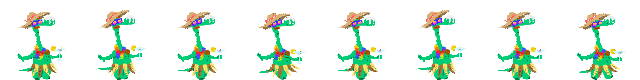
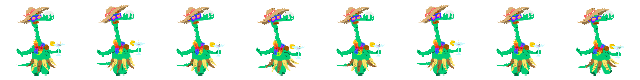
dino animation included

diff --git a/MangoMambo/Development/scenes/level_1.js b/MangoMambo/Development/scenes/level_1.js
@@ -12,7 +12,6 @@ class Level1 extends Phaser.Scene {
     }
 
     init (data){
-        this.characters = [];
         this.characters = data.characters;
         this.numPlayers = this.characters.length; // Número de jugadores
     }
@@ -44,13 +43,13 @@ class Level1 extends Phaser.Scene {
         // Se cargan las animaciones de los personajes
         this.load.spritesheet('dino_idle', './Design/Characters/Dino/dino_idle_00.png',
         {
-            frameWidth: 49,
-            frameHeight: 69 
+            frameWidth: 80,
+            frameHeight: 80 
         });
-        this.load.spritesheet('dino_walk', './Design/Characters/Dino/dino_walk2.png',
+        this.load.spritesheet('dino_walk', './Design/Characters/Dino/dino_walk.png',
         {
-            frameWidth: 49,
-            frameHeight: 72 
+            frameWidth: 80,
+            frameHeight: 80 
         });
         // Se cargan los contornos de los pesonajes
         this.load.image("outline", "./Design/Objects/outline.png");
@@ -135,19 +134,19 @@ class Level1 extends Phaser.Scene {
         for (var i = 0; i < this.characters.length; i++){
             switch(this.characters[i].id){
                 case 1:
-                    this.characters[i] = new Character(this, this.characters[i].id, this.characters[i].type.split("_")[0], true, 0, 0);
+                    this.characters[i] = new Character(this, this.characters[i].id, this.characters[i].type.split("_")[0]+"_idle", true, 0, 0);
                     break;
 
                 case 2:
-                    this.characters[i] = new Character(this, this.characters[i].id, this.characters[i].type.split("_")[0], true, 0, 0);
+                    this.characters[i] = new Character(this, this.characters[i].id, this.characters[i].type.split("_")[0]+"_idle", true, 0, 0);
                     break;
                 
                 case 3:
-                    this.characters[i] = new Character(this, this.characters[i].id, this.characters[i].type.split("_")[0], true, 0, 0);
+                    this.characters[i] = new Character(this, this.characters[i].id, this.characters[i].type.split("_")[0]+"_idle", true, 0, 0);
                     break;
 
                 case 4:
-                    this.characters[i] = new Character(this, this.characters[i].id, this.characters[i].type.split("_")[0], true, 0, 0);
+                    this.characters[i] = new Character(this, this.characters[i].id, this.characters[i].type.split("_")[0]+"_idle", true, 0, 0);
                     break;
             }
         }

diff --git a/MangoMambo/Development/players/character.js b/MangoMambo/Development/players/character.js
@@ -127,7 +127,7 @@ class Character extends Phaser.GameObjects.Sprite{
     }
 
     create() {
-        switch (this.type) {
+        switch (this.type.split("_")[0]) {
             case "palm":
                 this.colliderSize = [25, 42];
                 this.maxVelocity = 300;
@@ -140,7 +140,7 @@ class Character extends Phaser.GameObjects.Sprite{
                 this.anim[2] = "palm_jump";
                 break;
             case "dino":
-                this.colliderSize = [, ];
+                this.colliderSize = [80,80];
                 this.maxVelocity = 275;
                 this.acceleration = 3000;
                 this.jumpHeight = 510;
@@ -148,7 +148,7 @@ class Character extends Phaser.GameObjects.Sprite{
 
                 this.anim[0] = "dino_idle";
                 this.anim[1] = "dino_walk";
-                this.anim[1] = "dino_jump";
+                //this.anim[1] = "dino_jump";
                 this.scene.anims.create({
                     key: 'dino_idle',
                     frames: this.scene.anims.generateFrameNumbers('dino_idle', { start: 0, end: 0 }),
